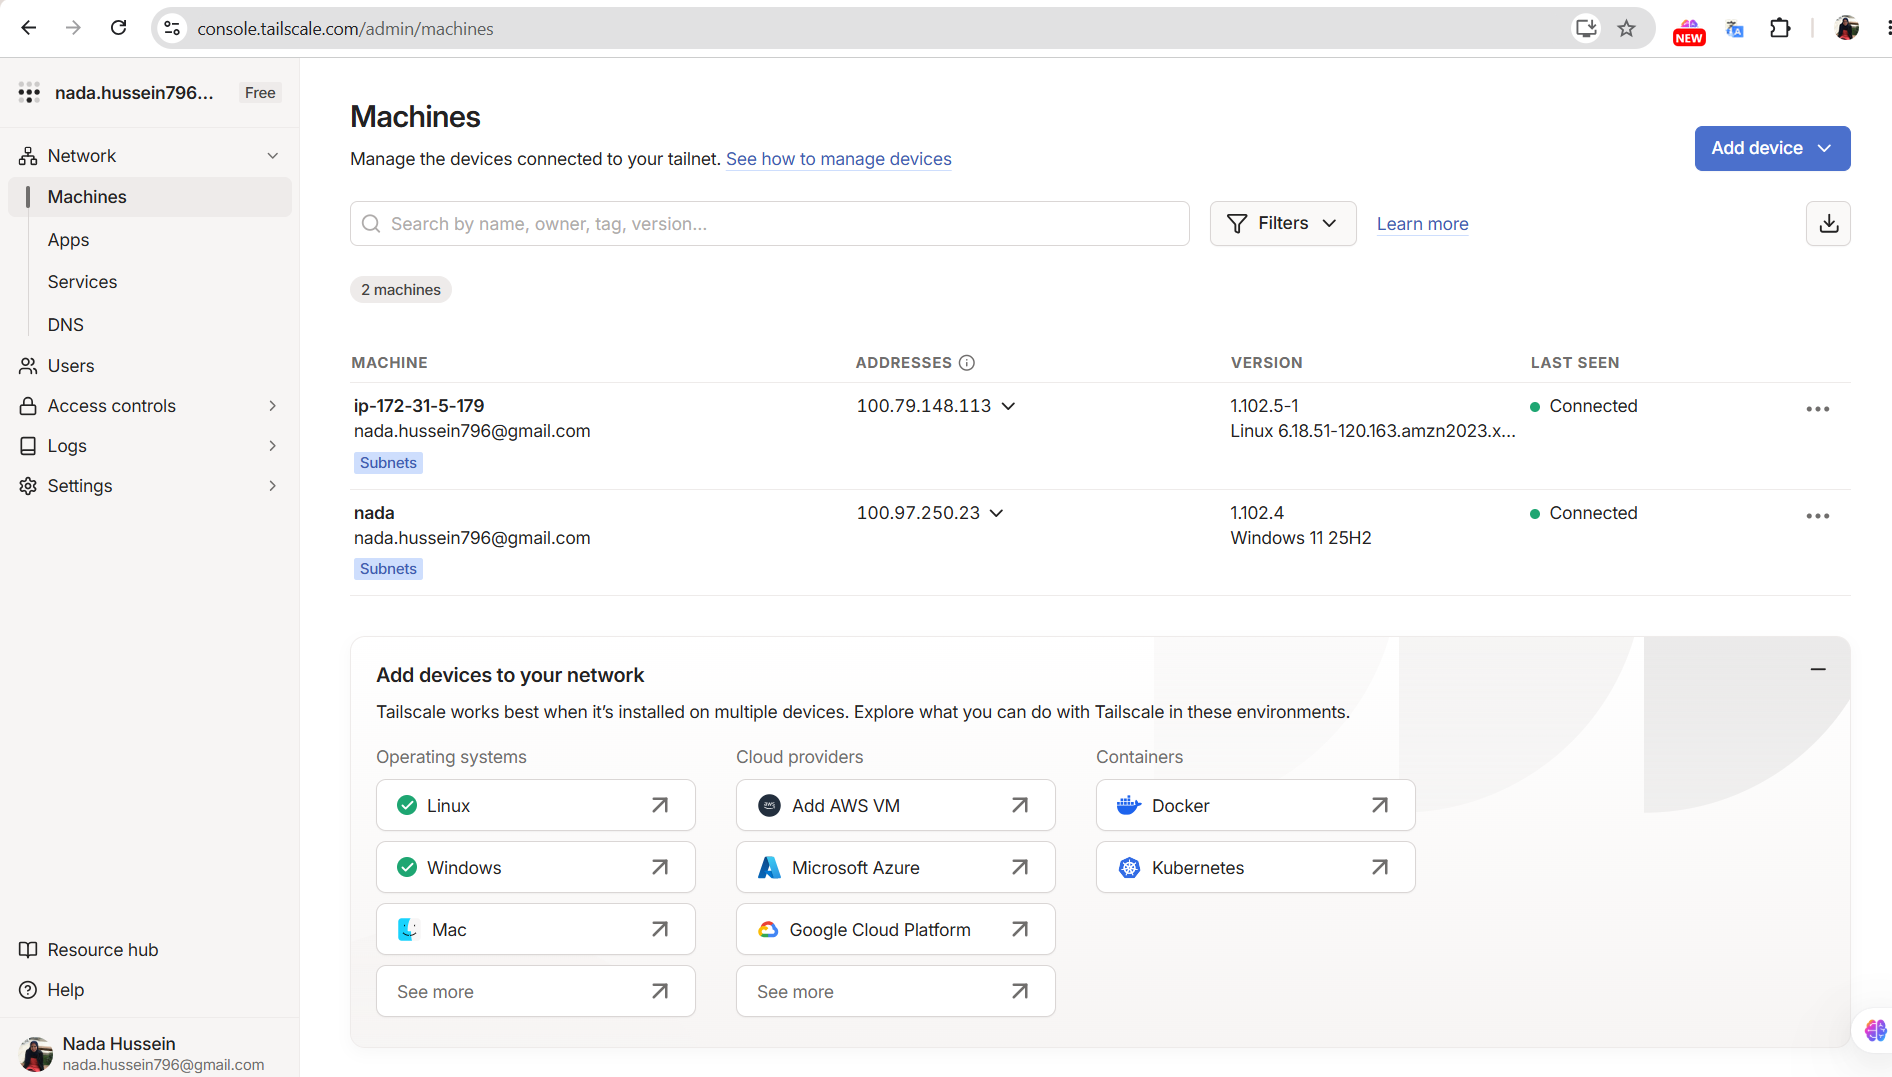
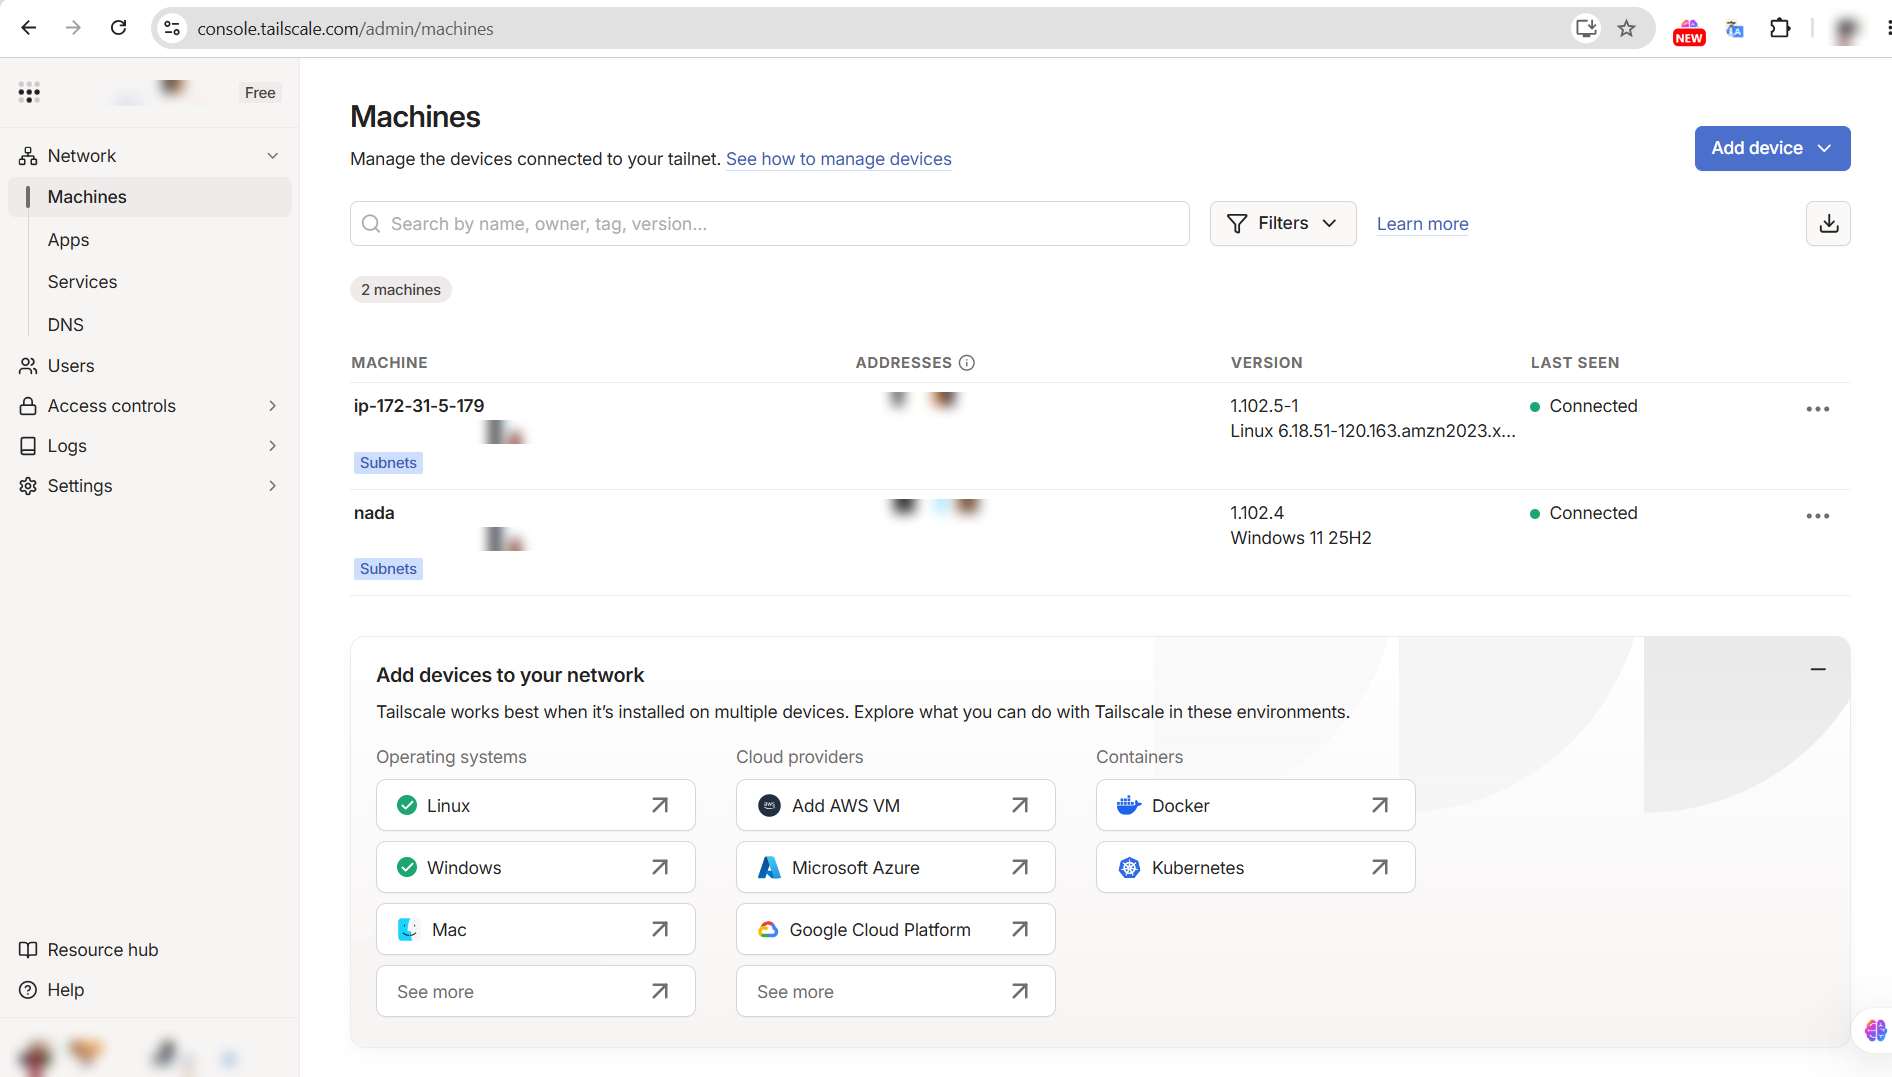
first commit

diff --git a/README.md b/README.md
@@ -102,6 +102,10 @@ Tailscale IP:3306
 Local Windows MySQL
 ```
 
+The Tailscale admin console shows both nodes (the Windows laptop and the EC2 bridge) connected to the same tailnet:
+
+![Tailscale machines](screenshots/tailscale.png)
+
 ---
 
 # 🗄 Source Database
@@ -151,6 +155,20 @@ order_date
 ```
 
 Foreign keys were configured between `orders`, `customers`, and `products`.
+
+### Creating the Database and Tables
+
+![Creating the shop database and tables](screenshots/DB/2.png)
+
+### Loading the Sample Data
+
+![Inserting sample data into the source tables](screenshots/DB/1.png)
+
+### Verifying the Source Data
+
+The source tables were queried to confirm the initial data set (5 customers, 5 products, 6 orders):
+
+![Source table contents](screenshots/DB/3.png)
 
 ---
 
@@ -305,6 +323,8 @@ Final task status:
 Load completed, replication ongoing
 ```
 
+![DMS task summary](screenshots/DMS/1-tasks.png)
+
 Migration results:
 
 ```text
@@ -320,6 +340,8 @@ customers
 products
 orders
 ```
+
+![DMS table statistics after Full Load](screenshots/DMS/2-table-statistics.png)
 
 After the Full Load completed, the task remained in:
 
@@ -344,7 +366,11 @@ INSERT INTO customers (name, email)
 VALUES ('CDC Test', 'cdc-test@example.com');
 ```
 
-The new record was subsequently reflected in the DMS migration statistics.
+![Inserting the CDC test row in the source database](screenshots/CDC/1-source.png)
+
+The new record was subsequently reflected in the DMS migration statistics (`customers` increased from 5 to 6 rows).
+
+![DMS table statistics after the CDC insert](screenshots/CDC/2-table-statistics-after-adding-a-row-on-customer-table.png)
 
 This demonstrated that the change made after the initial migration was processed by the ongoing DMS replication task.
 
@@ -398,6 +424,10 @@ An EC2 instance was used as a bridge between AWS DMS and the Tailscale network.
 An initial approach attempted to expose the laptop's local subnet through Tailscale subnet routing.
 
 This introduced additional routing complexity.
+
+The route was working at this stage: the EC2 instance accepted the advertised routes and could reach the laptop's LAN IP on port 3306.
+
+![Tailscale subnet routing test from EC2](screenshots/connection.png)
 
 ### Solution
 
@@ -581,22 +611,33 @@ Key security measures included:
 
 # 📸 Project Evidence
 
-Recommended screenshots for this repository:
+Screenshots used in this repository:
 
 ```text
 screenshots/
-├── 01-source-database.png
-├── 02-dms-task-full-load-cdc.png
-├── 03-dms-table-statistics.png
-├── 04-cdc-proof.png
-└── 05-architecture.png
+├── tailscale.png
+├── connection.png
+├── DB/
+│   ├── 1.png
+│   ├── 2.png
+│   └── 3.png
+├── DMS/
+│   ├── 1-tasks.png
+│   └── 2-table-statistics.png
+└── CDC/
+    ├── 1-source.png
+    └── 2-table-statistics-after-adding-a-row-on-customer-table.png
 ```
 
 ### Evidence 01 — Source Database
 
-Shows the original MySQL `shop` database and its tables/data.
+Shows the original MySQL `shop` database and its tables/data (`screenshots/DB/`).
 
 ### Evidence 02 — DMS Task
+
+`screenshots/DMS/1-tasks.png`
+
+Shows:
 
 Shows:
 
@@ -609,6 +650,8 @@ Full load, CDC
 
 ### Evidence 03 — Table Statistics
 
+`screenshots/DMS/2-table-statistics.png`
+
 Shows successful migration of:
 
 ```text
@@ -619,11 +662,9 @@ orders
 
 ### Evidence 04 — CDC
 
+`screenshots/CDC/`
+
 Shows the source change and corresponding DMS CDC activity.
-
-### Evidence 05 — Architecture
-
-Shows the final migration architecture and network path.
 
 ---
 
